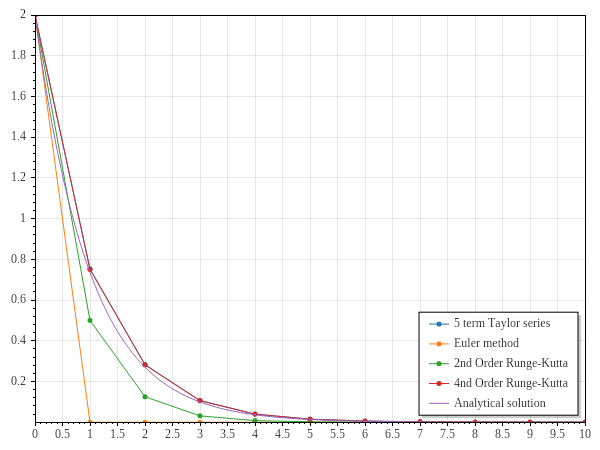
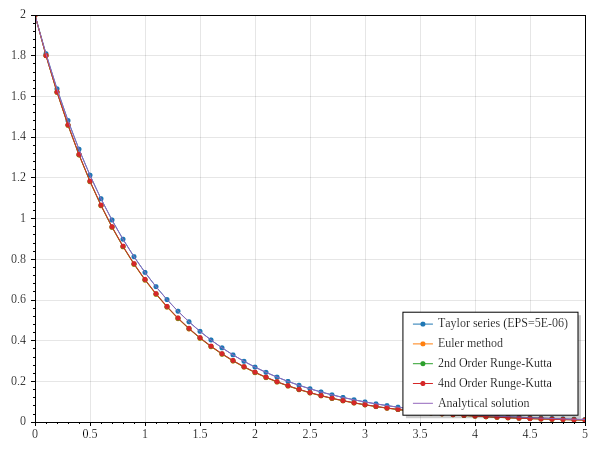
reorganized constants and ODEs into separate files

diff --git a/Program.cs b/Program.cs
@@ -7,64 +7,53 @@ using System.Diagnostics;
 namespace ODESolver;
 
 class Solver{
-	const double y_0 = 2d;
-	const double k = -1d;
-	const double h_e = 1d;
-	const double h_rk = 1d;
-	const double h_ts = 1d;
-	const uint ts_steps = 5;
-	const double n = 10;
-
-	
 	static List<double> result = new();
 	static TimeSpan exec_time = new();
 	
-	public static double function(double y) => k*y;
-	
-	static double analytical(double t) => y_0 * Math.Pow(Math.E, k*t);
-
 	public static void Main(){
 		ScottPlot.Plot plot = new();
 
-		TaylorSeries.Taylor(function, y_0, n, h_ts, k, ts_steps, result, out exec_time);
+		Console.WriteLine($"Does function converge? {Functs.Convergence()}");
+
+		TaylorSeries.Taylor(Functs.Y_prime, Consts.InitialConditions.Y, result, out exec_time);
 
 		Console.WriteLine($"Taylor method execution time: {exec_time.TotalMilliseconds} ms");
 
-		plot.Add.Scatter(Enumerable.Range(0,result.Count+1).Select(i => i*h_e).ToArray(), result.ToArray()).LegendText = $"{ts_steps} term Taylor series";
+		plot.Add.Scatter(Enumerable.Range(0,result.Count+1).Select(i => i*Consts.IntegrationSteps.Euler).ToArray(), result.ToArray()).LegendText = $"Taylor series (EPS={Consts.TaylorSeries.EPS})";
 
 		result.Clear();
 
-		EulerMethod.Euler(function, y_0, n, h_e, result, out exec_time);
+		EulerMethod.Euler(Functs.Y_prime, Consts.InitialConditions.Y, result, out exec_time);
 
 		Console.WriteLine($"Euler method execution time: {exec_time.TotalMilliseconds} ms");
 
-		plot.Add.Scatter(Enumerable.Range(0,result.Count+1).Select(i => i*h_e).ToArray(), result.ToArray()).LegendText = "Euler method";
-		Console.WriteLine($"Does Euler method converge: {EulerMethod.Convergence(h_e, k)}");				
+		plot.Add.Scatter(Enumerable.Range(0,result.Count+1).Select(i => i*Consts.IntegrationSteps.Euler).ToArray(), result.ToArray()).LegendText = "Euler method";
+		
 		result.Clear();
 
-		RK.SecondOrd(function, y_0, n, h_rk, result, out exec_time);
+		RK.SecondOrd(Functs.Y_prime, Consts.InitialConditions.Y, result, out exec_time);
 		
 		Console.WriteLine($"2nd order Runge-Kutta method execution time: {exec_time.TotalMilliseconds} ms");
 
-		plot.Add.Scatter(Enumerable.Range(0, result.Count+1).Select(i => i*h_rk).ToArray(), result.ToArray()).LegendText = "2nd Order Runge-Kutta";
+		plot.Add.Scatter(Enumerable.Range(0, result.Count+1).Select(i => i*Consts.IntegrationSteps.RK).ToArray(), result.ToArray()).LegendText = "2nd Order Runge-Kutta";
 
 		result.Clear();
 
-		RK.FourthOrd(function, y_0, n, h_rk, result, out exec_time);
+		RK.FourthOrd(Functs.Y_prime, Consts.InitialConditions.Y, result, out exec_time);
 
 		Console.WriteLine($"4th order Runge-Kutta method execution time: {exec_time.TotalMilliseconds} ms");
 	
-		plot.Add.Scatter(Enumerable.Range(0, result.Count+1).Select(i => i*h_rk).ToArray(), result.ToArray()).LegendText = "4nd Order Runge-Kutta";
+		plot.Add.Scatter(Enumerable.Range(0, result.Count+1).Select(i => i*Consts.IntegrationSteps.RK).ToArray(), result.ToArray()).LegendText = "4nd Order Runge-Kutta";
 	
 		
 
 
-		var f = plot.Add.Function(analytical);
+		var f = plot.Add.Function(Functs.Analytical);
 		f.MinX = 0;
-		f.MaxX = n;
+		f.MaxX = Consts.T_max;
 		f.LegendText = "Analytical solution";
 		
-		plot.Axes.SetLimits(0, n, Math.Min(y_0, result.Min()), Math.Max(y_0, result.Max()));
+		plot.Axes.SetLimits(0, Consts.T_max, 0, 2);
 		plot.SavePng("graph.png", 600, 450);
 
 

diff --git a/RK.cs b/RK.cs
@@ -7,17 +7,17 @@ namespace ODESolver;
 static class RK{
 	private static Stopwatch stopwatch = new();
 
-	private static (double, double) CalculateK2(Func<double,double> f, double y, double h){
-		double k_1 = h*f(y);
-		double k_2 = h*f(y + h*(k_1/2));
+	private static (double, double) CalculateK2(Func<double,double> f, double y){
+		double k_1 = Consts.IntegrationSteps.RK*f(y);
+		double k_2 = Consts.IntegrationSteps.RK*f(y + Consts.IntegrationSteps.RK*(k_1/2));
 		return (k_1, k_2);
 	}
 
-	public static void SecondOrd(Func<double,double> f, double y, double n, double h, List<double> vals, out TimeSpan exec_time){
+	public static void SecondOrd(Func<double,double> f, double y, List<double> vals, out TimeSpan exec_time){
 		stopwatch.Start();
-		for(double i = 0; i<=n; i+=h){
+		for(double i = 0; i<=Consts.T_max; i+=Consts.IntegrationSteps.RK){
 			vals.Add(y);
-			(double k_1, double k_2) = CalculateK2(f, y, h);
+			(double k_1, double k_2) = CalculateK2(f, y);
 			y += (k_1 + k_2)/2;
 		}
 		stopwatch.Stop();
@@ -25,13 +25,13 @@ static class RK{
 		stopwatch.Reset();
 	}
 
-	public static void FourthOrd(Func<double,double> f, double y, double n, double h, List<double> vals, out TimeSpan exec_time){
+	public static void FourthOrd(Func<double,double> f, double y, List<double> vals, out TimeSpan exec_time){
 		stopwatch.Start();
-		for(double i = 0; i<=n; i+=h){
+		for(double i = 0; i<=Consts.T_max; i+=Consts.IntegrationSteps.RK){
 			vals.Add(y);
-			(double k_1, double k_2) = CalculateK2(f, y, h);
-			double k_3 = h*f(y + h*(k_2/2));
-			double k_4 = h*f(y + h*k_3);
+			(double k_1, double k_2) = CalculateK2(f, y);
+			double k_3 = Consts.IntegrationSteps.RK*f(y + Consts.IntegrationSteps.RK*(k_2/2));
+			double k_4 = Consts.IntegrationSteps.RK*f(y + Consts.IntegrationSteps.RK*k_3);
 			y += (k_1 + 2*k_2 + 2*k_3 + k_4)/6;
 		}
 		stopwatch.Stop();

diff --git a/Taylor.cs b/Taylor.cs
@@ -7,17 +7,18 @@ namespace ODESolver;
 static class TaylorSeries{
 	private static Stopwatch stopwatch = new();
 
-	private static double RecTaylor(double y, double h, double lambda, uint step, uint max_steps){
-		if(step < max_steps)
-			return y+RecTaylor((h/(++step))*lambda*y, h, lambda, step, max_steps);
-		return (h/(++step))*lambda*y;
+	private static double RecTaylor(double y, uint step, double last_term){
+		double new_term = ((Consts.IntegrationSteps.Taylor/++step)*Consts.Lambda*y);
+		if(step < Consts.TaylorSeries.MaxSteps && Math.Abs(last_term)+Math.Abs(y)+Math.Abs(new_term) > Consts.TaylorSeries.EPS)
+			return y+RecTaylor(new_term, step, y);
+		return new_term;
 	}
 
-	public static void Taylor(Func<double,double> f, double y, double n, double h, double lambda, uint steps, List<double> vals, out TimeSpan exec_time){
+	public static void Taylor(Func<double,double> f, double y, List<double> vals, out TimeSpan exec_time){
 		stopwatch.Start();
-		for(double i = 0; i<=n; i+=h){
+		for(double i = 0; i<=Consts.T_max; i+=Consts.IntegrationSteps.Taylor){
 			vals.Add(y);
-			y += RecTaylor(h*f(y), h, lambda, 1, steps);
+			y += RecTaylor(Consts.IntegrationSteps.Taylor*f(y), 1, y);
 		}
 		stopwatch.Stop();
 		exec_time = stopwatch.Elapsed;

diff --git a/Euler.cs b/Euler.cs
@@ -6,13 +6,12 @@ namespace ODESolver;
 // class for Euler method solving
 static class EulerMethod{
 	private static Stopwatch stopwatch = new();
-	public static bool Convergence(double h, double lambda) => Math.Abs(1 + h*lambda) <= 1;
 	// function for calculating linear ODE f with a value of y at time 0 until time n with a time step of h
-	public static void Euler(Func<double,double> f, double y, double n, double h, List<double> vals, out TimeSpan exec_time){
+	public static void Euler(Func<double,double> f, double y, List<double> vals, out TimeSpan exec_time){
 		stopwatch.Start();
-		for(double i = 0; i<=n; i+=h){
+		for(double i = 0; i<=Consts.T_max; i+=Consts.IntegrationSteps.Euler){
 			vals.Add(y);
-			y += h * f(y);
+			y += Consts.IntegrationSteps.Euler * f(y);
 		}
 		stopwatch.Stop();
 		exec_time = stopwatch.Elapsed;

diff --git a/Consts.cs b/Consts.cs
@@ -1,0 +1,18 @@
+namespace ODESolver;
+
+public struct Consts{
+	public struct InitialConditions{
+		public const double Y = 2d;
+	};
+	public struct IntegrationSteps{
+		public const double Euler = 0.1d;
+		public const double RK = 0.1d;
+		public const double Taylor = 0.1d;
+	};
+	public const double Lambda = -1d;
+	public const double T_max = 5d;
+	public struct TaylorSeries{
+		public const uint MaxSteps = 50;
+		public const double EPS = 0.000005d; 
+	};
+};

diff --git a/Functs.cs b/Functs.cs
@@ -1,0 +1,9 @@
+using System;
+
+namespace ODESolver;
+
+struct Functs{
+	public static double Y_prime(double y) => Consts.Lambda*y;
+	public static double Analytical(double t) => Consts.InitialConditions.Y * Math.Pow(Math.E, Consts.Lambda*t);
+	public static bool Convergence() => Math.Abs(1 + Consts.Lambda*Consts.IntegrationSteps.Euler) <= 1;
+}
